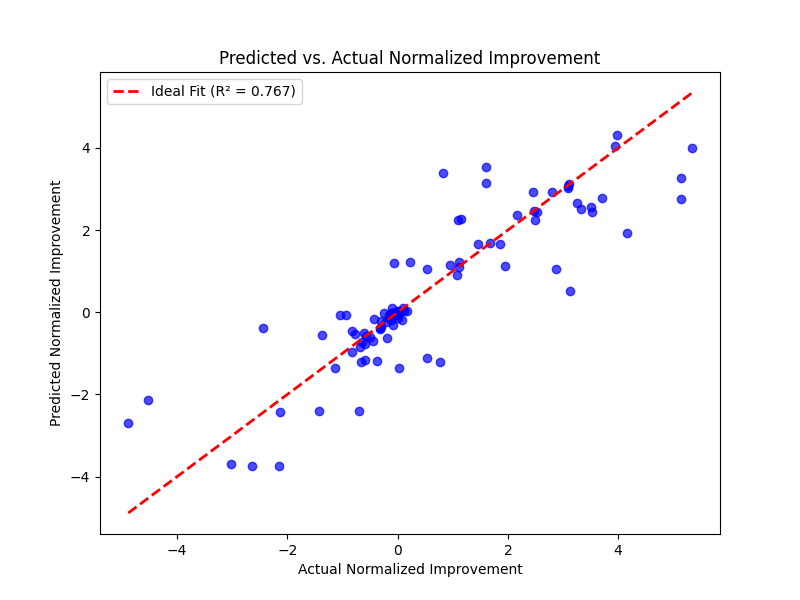
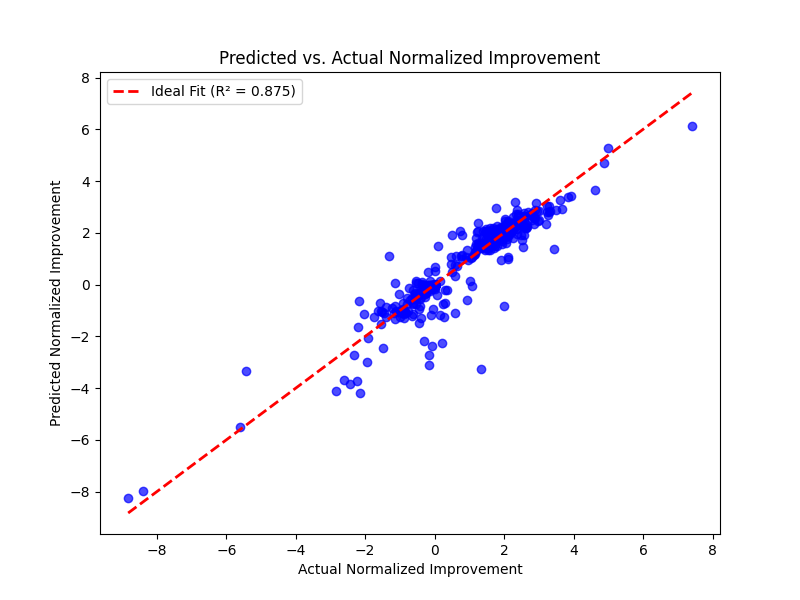
Updated Analysis

diff --git a/_reichman/bipartite/evalPlotV3.py b/_reichman/bipartite/evalPlotV3.py
@@ -1,0 +1,101 @@
+import glob
+import math
+import pandas as pd
+import matplotlib.pyplot as plt
+import numpy as np
+
+# For reproducibility (optional)
+np.random.seed(0)
+
+# Generate a list of 25 random colors.
+random_colors = [tuple(np.random.rand(3,)) for _ in range(25)]
+
+# Find all CSV files with the specified prefix.
+csv_files = glob.glob("bipartite_experiment_results_epislons_*.csv")
+
+# Load and concatenate all CSV files.
+df_list = [pd.read_csv(file) for file in csv_files]
+df = pd.concat(df_list, ignore_index=True)
+
+# --------------------- Function to create line chart figure ---------------------
+def create_line_chart_figure(df, y_value, filename, y_label_title, coefficients_subset=None):
+    """
+    Generates a line chart figure for the given y_value column.
+    Each subplot corresponds to a unique "Nodes" value, with one line per "Coefficient".
+    An extra subplot displays a legend using a predefined random color list.
+    
+    Parameters:
+      df: pandas DataFrame containing the data.
+      y_value: column name in the DataFrame to plot on the y-axis.
+      filename: the filename to save the figure.
+      y_label_title: label for the y-axis.
+      coefficients_subset: (optional) list of coefficient values to plot. If None, all coefficients are plotted.
+    """
+    # Group by Epsilon, Nodes, and Coefficient and compute the mean of the specified y_value.
+    grouped = df.groupby(["Epsilon", "Nodes", "Coefficient"], as_index=False)[y_value].mean()
+
+    # Get unique Nodes values (for subplots) and unique Coefficient values.
+    nodes_values = sorted(grouped["Nodes"].unique())
+    coefficients = sorted(grouped["Coefficient"].unique())
+    
+    # Filter coefficients if a subset is provided.
+    if coefficients_subset is not None:
+        coefficients = [coeff for coeff in coefficients if coeff in coefficients_subset]
+
+    # Create an extra subplot for the legend.
+    total_plots = len(nodes_values) + 1
+
+    # Determine grid dimensions based on total plots.
+    n_cols = math.ceil(math.sqrt(total_plots))
+    n_rows = math.ceil(total_plots / n_cols)
+
+    fig, axes = plt.subplots(n_rows, n_cols, figsize=(6 * n_cols, 4 * n_rows), sharex=True, sharey=False)
+    axes = axes.flatten()
+
+    # Plot the line charts for each Nodes value.
+    for ax, nodes in zip(axes, nodes_values):
+        sub_df = grouped[grouped["Nodes"] == nodes]
+        for idx, coeff in enumerate(coefficients):
+            coeff_df = sub_df[sub_df["Coefficient"] == coeff].sort_values(by="Epsilon")
+            ax.plot(coeff_df["Epsilon"], coeff_df[y_value], marker='o', linestyle='-', color=random_colors[idx % len(random_colors)])
+        ax.set_title(f"Nodes = {nodes}")
+        ax.set_xlabel("Epsilon")
+        ax.set_ylabel(y_label_title)
+
+    # Create dummy handles for the legend using our random colors.
+    legend_handles = []
+    for idx, coeff in enumerate(coefficients):
+        color = random_colors[idx % len(random_colors)]
+        line = plt.Line2D([0], [0], marker='o', color=color, linestyle='-', label=f"Density: {coeff / 2} Ln(N)")
+        legend_handles.append(line)
+
+    # The extra subplot (last cell) is used for the legend.
+    legend_ax = axes[len(nodes_values)]
+    legend_ax.axis('off')
+    legend_ax.legend(handles=legend_handles, loc='center', frameon=False)
+
+    # Remove any unused subplots if they exist.
+    for ax in axes[total_plots:]:
+        fig.delaxes(ax)
+
+    plt.tight_layout()
+    plt.savefig(filename)
+    # plt.show()
+    plt.close(fig)
+
+# --------------------- Create Figures using all coefficients ---------------------
+
+# Figure for Oracle_MIS using all coefficients.
+create_line_chart_figure(df, y_value="Oracle_MIS", filename="eval_line_chart_with_legend_Oracle.png", y_label_title="Oracle_MIS")
+
+# Figure for Greedy_MIS using all coefficients.
+create_line_chart_figure(df, y_value="Greedy_MIS", filename="eval_line_chart_with_legend_Greedy.png", y_label_title="Greedy_MIS")
+
+# --------------------- Create Figures for a subset of coefficients ---------------------
+subset_coeffs = [2, 5, 10, 15, 20, 30]
+
+# Figure for Oracle_MIS using only coefficients 1, 5, 10, and 15.
+create_line_chart_figure(df, y_value="Oracle_MIS", filename="eval_line_chart_with_legend_Oracle_subset.png", y_label_title="Oracle_MIS", coefficients_subset=subset_coeffs)
+
+# Figure for Greedy_MIS using only coefficients 1, 5, 10, and 15.
+create_line_chart_figure(df, y_value="Greedy_MIS", filename="eval_line_chart_with_legend_Greedy_subset.png", y_label_title="Greedy_MIS", coefficients_subset=subset_coeffs)

diff --git a/_reichman/bipartite/evalPlot2.py b/_reichman/bipartite/evalPlot2.py
@@ -1,26 +1,61 @@
 import glob
+import math
 import pandas as pd
-import numpy as np
 import matplotlib.pyplot as plt
+import seaborn as sns
+import numpy as np
 from sklearn.ensemble import RandomForestRegressor
 from sklearn.metrics import mean_squared_error, r2_score
 from sklearn.model_selection import train_test_split
 import shap
 
-# Load CSV files and concatenate them.
+# Find all CSV files with the specified prefix.
 csv_files = glob.glob("bipartite_experiment_results_epislons_*.csv")
+
+# Load and concatenate all CSV files.
 df_list = [pd.read_csv(file) for file in csv_files]
 df = pd.concat(df_list, ignore_index=True)
 
-# Create normalized improvement column.
-df["NormalizedImprovement"] = df["Improvement"] / df["Greedy_MIS"] * 100
+# Create a new column for normalized improvement.
+df["ApproximationScore"] = df["Oracle_MIS"] / df["GroundTruth_MIS"] * 100
 
 # Group by Epsilon, Nodes, and Coefficient and compute the average NormalizedImprovement.
-grouped = df.groupby(["Epsilon", "Nodes", "Coefficient"], as_index=False)["NormalizedImprovement"].mean()
+grouped = df.groupby(["Epsilon", "Nodes", "Coefficient"], as_index=False)["ApproximationScore"].mean()
 
-# Define features and target.
+# Determine the global min and max normalized improvement for consistent color scale.
+global_min = grouped["ApproximationScore"].min()
+global_max = grouped["ApproximationScore"].max()
+
+# Get unique epsilon values.
+epsilons = sorted(df["Epsilon"].unique())
+
+# Determine subplot grid: 2 rows and as many columns as needed.
+n_eps = len(epsilons)
+n_cols = math.ceil(n_eps / 2)
+
+fig, axes = plt.subplots(2, n_cols, figsize=(10 * n_cols, 10), sharey=True)
+axes = axes.flatten()  # Flatten to iterate easily
+
+# For each epsilon, pivot the table and plot the heatmap with the same color scale.
+for ax, eps in zip(axes, epsilons):
+    sub_df = grouped[grouped["Epsilon"] == eps]
+    pivot = sub_df.pivot(index="Coefficient", columns="Nodes", values="ApproximationScore")
+    sns.heatmap(pivot, ax=ax, annot=True, fmt=".2f", cmap="viridis", 
+                vmin=global_min, vmax=global_max)
+    ax.set_title(f"Percent Improvement with Oracle (At Epsilon = {eps})")
+    ax.set_xlabel("Nodes in Evenly Sized Bipartite Graph")
+    ax.set_ylabel("X * Log(n) / N")
+
+# If there are any unused subplots, remove them.
+for ax in axes[len(epsilons):]:
+    fig.delaxes(ax)
+
+plt.tight_layout()
+plt.savefig("evalApprox.png")
+plt.show()
+
 X = grouped[["Nodes", "Coefficient", "Epsilon"]]
-y = grouped["NormalizedImprovement"]
+y = grouped["ApproximationScore"]
 
 # Split the data into training and testing sets.
 X_train, X_test, y_train, y_test = train_test_split(X, y, test_size=0.2, random_state=42)
@@ -45,7 +80,7 @@ plt.xlabel("Actual Normalized Improvement")
 plt.ylabel("Predicted Normalized Improvement")
 plt.title("Predicted vs. Actual Normalized Improvement")
 plt.legend()
-plt.savefig('evalFit.png')
+plt.savefig('evalApproxFit.png')
 plt.show()
 
 
@@ -61,7 +96,3 @@ shap_values = explainer.shap_values(X_test)
 
 # Generate a summary plot of SHAP values
 shap.summary_plot(shap_values, X_test, feature_names=X.columns)
-
-
-
-

diff --git a/_reichman/bipartite/evalFit2.py b/_reichman/bipartite/evalFit2.py
@@ -1,0 +1,72 @@
+import glob
+import pandas as pd
+import numpy as np
+import matplotlib.pyplot as plt
+from sklearn.ensemble import RandomForestRegressor
+from sklearn.metrics import mean_squared_error, r2_score
+from sklearn.model_selection import GroupShuffleSplit
+import shap
+
+# Load CSV files and concatenate them.
+csv_files = glob.glob("bipartite_experiment_results_epislons_*.csv")
+df_list = [pd.read_csv(file) for file in csv_files]
+df = pd.concat(df_list, ignore_index=True)
+
+# Create a new column that represents the percentage of the true MIS that is found.
+df["TrueMIS_Percentage"] = df["Oracle_MIS"] / df["GroundTruth_MIS"] * 100
+
+# Group by Epsilon, Nodes, and Coefficient and compute the average TrueMIS_Percentage.
+grouped = df.groupby(["Epsilon", "Nodes", "Coefficient"], as_index=False)["TrueMIS_Percentage"].mean()
+
+# Define features and target.
+X = grouped[["Nodes", "Coefficient", "Epsilon"]]
+y = grouped["TrueMIS_Percentage"]
+
+# Create a group identifier as a string for each row based on "Nodes", "Coefficient", and "Epsilon".
+groups = X["Nodes"].astype(str) + "_" + X["Coefficient"].astype(str) + "_" + X["Epsilon"].astype(str)
+
+# Use GroupShuffleSplit so that no group appears in both train and test.
+gss = GroupShuffleSplit(n_splits=1, test_size=0.2, random_state=42)
+train_idx, test_idx = next(gss.split(X, y, groups=groups))
+
+X_train = X.iloc[train_idx]
+X_test = X.iloc[test_idx]
+y_train = y.iloc[train_idx]
+y_test = y.iloc[test_idx]
+
+# Instantiate and train the random forest regressor.
+rf_model = RandomForestRegressor(n_estimators=100, random_state=42)
+rf_model.fit(X_train, y_train)
+
+# Evaluate the model.
+y_pred = rf_model.predict(X_test)
+mse = mean_squared_error(y_test, y_pred)
+r2 = r2_score(y_test, y_pred)
+print("Mean Squared Error:", mse)
+print("R-squared:", r2)
+
+# Plot the predicted vs actual values.
+plt.figure(figsize=(8, 6))
+plt.scatter(y_test, y_pred, color='blue', alpha=0.7)
+plt.plot([y_test.min(), y_test.max()],
+         [y_test.min(), y_test.max()],
+         'r--', lw=2, label=f'Ideal Fit (R² = {r2:.3f})')
+plt.xlabel("Actual TrueMIS Percentage")
+plt.ylabel("Predicted TrueMIS Percentage")
+plt.title("Predicted vs. Actual TrueMIS Percentage")
+plt.legend()
+plt.savefig('evalFit_TrueMIS.png')
+plt.show()
+
+# 1. Feature Importances
+importances = rf_model.feature_importances_
+for feature, importance in zip(X.columns, importances):
+    print(f"Feature: {feature}, Importance: {importance:.4f}")
+
+# 2. SHAP Analysis
+# Create an explainer and compute SHAP values.
+explainer = shap.TreeExplainer(rf_model)
+shap_values = explainer.shap_values(X_test)
+
+# Generate a summary plot of SHAP values.
+shap.summary_plot(shap_values, X_test, feature_names=X.columns)

diff --git a/_reichman/bipartite/evalPlot.py b/_reichman/bipartite/evalPlot.py
@@ -29,7 +29,7 @@ epsilons = sorted(df["Epsilon"].unique())
 n_eps = len(epsilons)
 n_cols = math.ceil(n_eps / 2)
 
-fig, axes = plt.subplots(2, n_cols, figsize=(7 * n_cols, 10), sharey=True)
+fig, axes = plt.subplots(2, n_cols, figsize=(9 * n_cols, 10), sharey=True)
 axes = axes.flatten()  # Flatten to iterate easily
 
 # For each epsilon, pivot the table and plot the heatmap with the same color scale.
